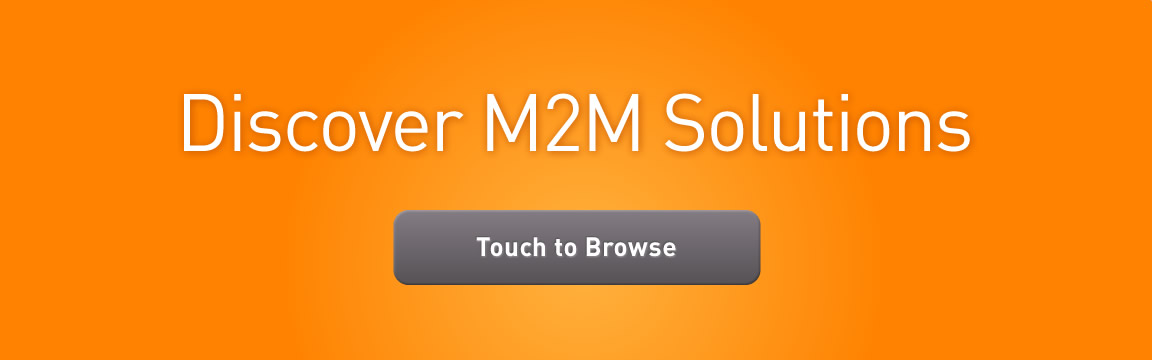
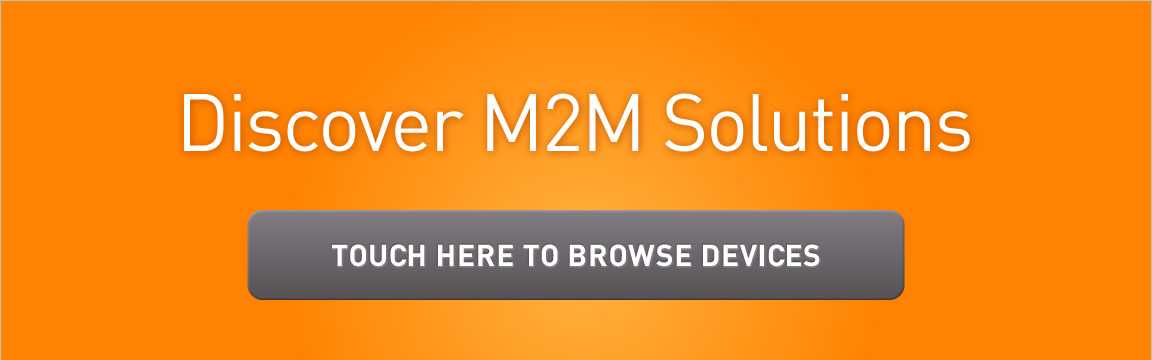
[BugzId:4870] longer search buttons

Changed region(s): [[0.1875, 0.5806, 0.8125, 0.8556], [0.9688, 0.0, 1.0, 0.0306], [0.0, 0.0, 0.0312, 0.0306]]

diff --git a/sites/all/themes/m2mlcd/css/styles.css b/sites/all/themes/m2mlcd/css/styles.css
@@ -77,7 +77,7 @@ a:hover {
 #header_top .block-views,
 #header_top .block-block  {
   position: relative;
-  width: 960px;
+  width: 976px;
   margin: 0 auto;
   text-align: left;
   z-index: 100;
@@ -88,7 +88,7 @@ a:hover {
   margin: 0;
 }
 .views-exposed-form .views-exposed-widget {
-  padding: 0 10px 10px 0;
+  padding: 0 14px 10px 0;
   width: 230px;
 }
 .views-exposed-form .views-exposed-widget.views-widget-filter-field_operator_certifications_value_many_to_one,
@@ -155,7 +155,7 @@ a:hover {
   clear: both;
 }
 .views-exposed-form .views-submit-button input.form-submit {
-  margin: 0 10px 0 0;
+  margin: 0 16px 0 0;
   font-weight: bold;
   font-family: "Arial Rounded MT Bold", arial, helvetica;
   -webkit-border-radius: 5px;
@@ -170,7 +170,7 @@ a:hover {
   background: #000 url(../images/ef_btn_search.png) no-repeat top right;
   color:#fff;
   padding: 0 10px;
-  width: 230px;
+  width: 260px;
   text-align: left;
 }
 .views-exposed-form .views-submit-button input#view-all.form-submit {

diff --git a/sites/all/themes/m2m2/css/styles.css b/sites/all/themes/m2m2/css/styles.css
@@ -77,7 +77,7 @@ a:hover {
 #header_top .block-views,
 #header_top .block-block  {
   position: relative;
-  width: 960px;
+  width: 976px;
   margin: 0 auto;
   text-align: left;
   z-index: 100;
@@ -88,7 +88,7 @@ a:hover {
   margin: 0;
 }
 .views-exposed-form .views-exposed-widget {
-  padding: 0 10px 10px 0;
+  padding: 0 14px 10px 0;
   width: 230px;
 }
 .views-exposed-form .views-exposed-widget.views-widget-filter-field_operator_certifications_value_many_to_one,
@@ -156,7 +156,7 @@ a:hover {
   clear: both;
 }
 .views-exposed-form .views-submit-button input.form-submit {
-  margin: 0 10px 0 0;
+  margin: 0 16px 0 0;
   font-weight: bold;
   font-family: "Arial Rounded MT Bold", arial, helvetica;
   -webkit-border-radius: 5px;
@@ -171,7 +171,7 @@ a:hover {
   background: #000 url(../images/ef_btn_search.png) no-repeat top right;
   color:#fff;
   padding: 0 10px;
-  width: 230px;
+  width: 260px;
   text-align: left;
   cursor: pointer;
 }
